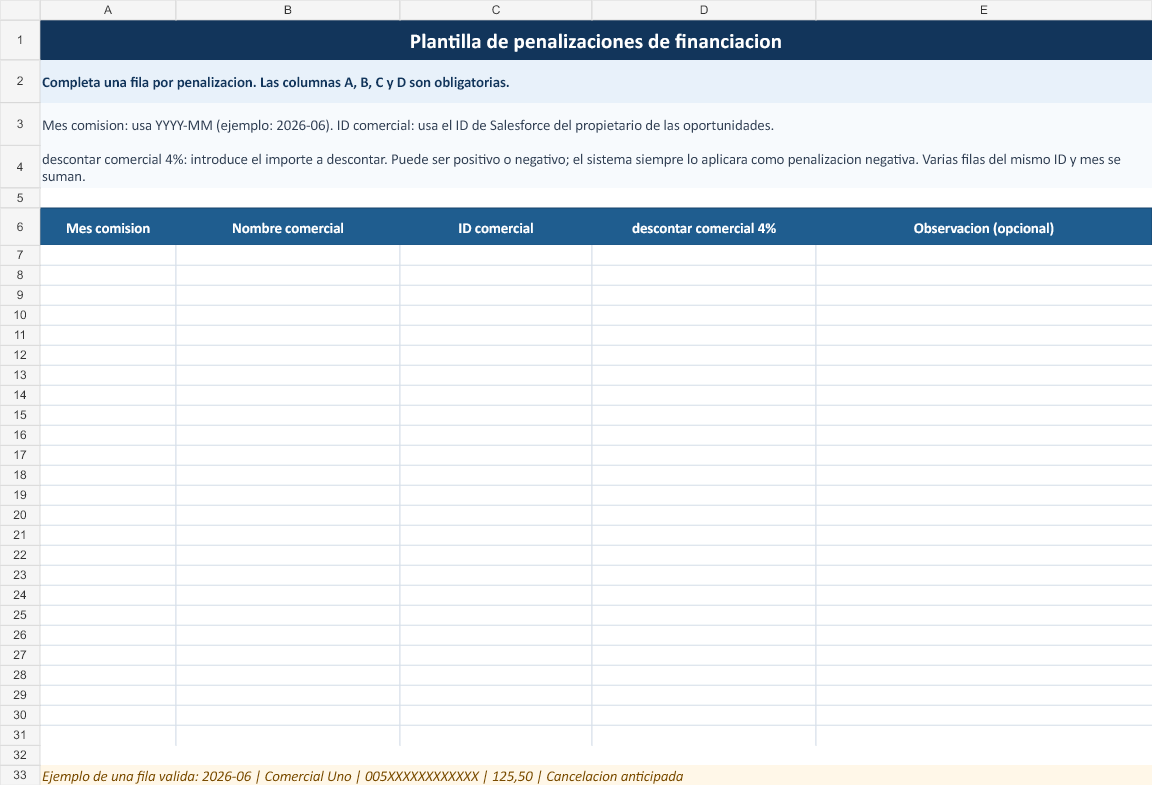
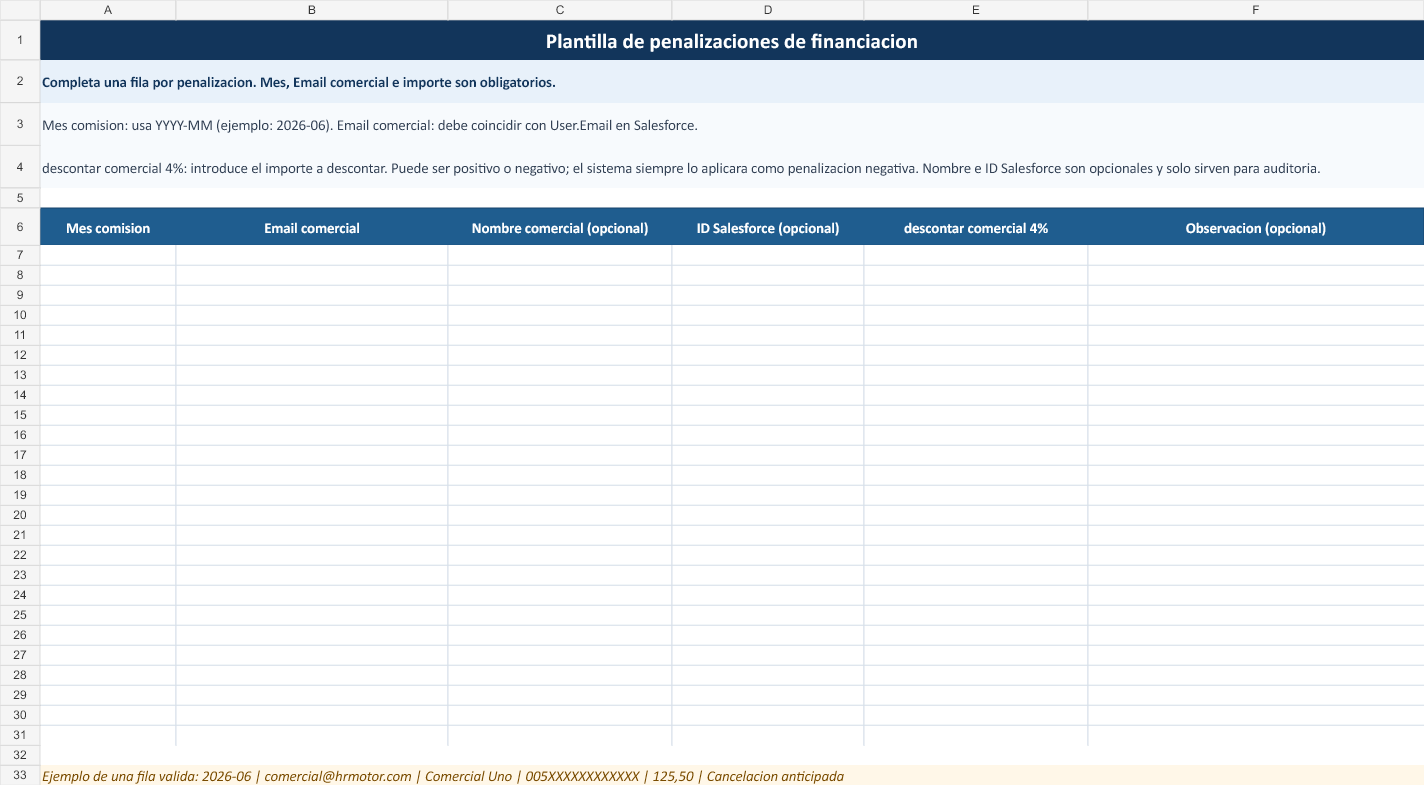
Penalizaciones

diff --git a/app/Services/Reports/CommercialCommissions/CommercialFinancingPenaltyImportService.php b/app/Services/Reports/CommercialCommissions/CommercialFinancingPenaltyImportService.php
@@ -19,7 +19,7 @@ class CommercialFinancingPenaltyImportService
         'amount' => ['descontarcomercial4', 'descontaracomercial4'],
     ];
 
-    private const IDENTITY_COLUMNS = [
+    private const OPTIONAL_IDENTITY_COLUMNS = [
         'commercial_id' => ['idcomercial', 'idsalesforce', 'idsalesforcecomercial', 'salesforceid'],
         'commercial_name' => ['nombrecomercial', 'nombre'],
     ];
@@ -95,9 +95,9 @@ class CommercialFinancingPenaltyImportService
                 CommercialFinancingPenalty::query()->create([
                     'import_id' => $import->id,
                     'commission_month' => $row['commission_month'],
-                    'commercial_email' => $salesforceUser?->email ?? $row['commercial_email'],
+                    'commercial_email' => $row['commercial_email'] ?? $salesforceUser?->email,
                     'commercial_name' => $row['commercial_name'] ?? $salesforceUser?->name,
-                    'salesforce_user_id' => $row['commercial_salesforce_id'] ?? $salesforceUser?->salesforce_id,
+                    'salesforce_user_id' => $salesforceUser?->salesforce_id ?? $row['commercial_salesforce_id'],
                     'amount' => $row['amount'],
                     'source_sheet' => $row['source_sheet'],
                     'source_row' => $row['source_row'],
@@ -117,13 +117,13 @@ class CommercialFinancingPenaltyImportService
 
     private function matchedUser(array $row, $usersById, $usersByEmail): ?SalesforceUser
     {
-        $commercialId = trim((string) ($row['commercial_salesforce_id'] ?? ''));
+        $email = $this->emailKey($row['commercial_email'] ?? null);
 
-        if ($commercialId !== '') {
-            return $usersById->get($commercialId);
+        if ($email !== '') {
+            return $usersByEmail->get($email);
         }
 
-        return $usersByEmail->get($this->emailKey($row['commercial_email'] ?? null));
+        return $usersById->get(trim((string) ($row['commercial_salesforce_id'] ?? '')));
     }
 
     /** @return array<int, array<string, mixed>> */
@@ -152,7 +152,7 @@ class CommercialFinancingPenaltyImportService
                 $commercialName = $commercialNameColumn !== null
                     ? trim((string) ($row[$commercialNameColumn] ?? ''))
                     : '';
-                $email = $header['mode'] === 'email'
+                $email = $header['columns']['email'] !== null
                     ? trim((string) ($row[$header['columns']['email']] ?? ''))
                     : '';
                 $monthValue = $row[$header['columns']['month']] ?? null;
@@ -164,14 +164,6 @@ class CommercialFinancingPenaltyImportService
 
                 $month = $this->parseMonth($monthValue);
                 $amount = $this->parseAmount($amountValue);
-
-                if ($header['mode'] === 'identity' && $commercialId === '') {
-                    $errors[] = "{$sheet['name']} fila {$sourceRow}: ID comercial obligatorio.";
-                }
-
-                if ($header['mode'] === 'identity' && $commercialName === '') {
-                    $errors[] = "{$sheet['name']} fila {$sourceRow}: Nombre comercial obligatorio.";
-                }
 
                 if ($header['mode'] === 'email' && ! filter_var($email, FILTER_VALIDATE_EMAIL)) {
                     $errors[] = "{$sheet['name']} fila {$sourceRow}: Email comercial no valido.";
@@ -189,9 +181,9 @@ class CommercialFinancingPenaltyImportService
                     break 2;
                 }
 
-                $validIdentity = $header['mode'] === 'identity'
-                    ? $commercialId !== '' && $commercialName !== ''
-                    : filter_var($email, FILTER_VALIDATE_EMAIL);
+                $validIdentity = $header['mode'] === 'email'
+                    ? filter_var($email, FILTER_VALIDATE_EMAIL)
+                    : $commercialId !== '' && $commercialName !== '';
 
                 if ($month === null || $amount === null || ! $validIdentity) {
                     continue;
@@ -218,7 +210,7 @@ class CommercialFinancingPenaltyImportService
         }
 
         if (! $foundHeader) {
-            throw new CommercialFinancingPenaltyImportException('Faltan las columnas requeridas: Mes comision, Nombre comercial, ID comercial y descontar comercial 4%.');
+            throw new CommercialFinancingPenaltyImportException('Faltan las columnas requeridas: Mes comision, Email comercial y descontar comercial 4%.');
         }
 
         if ($errors !== []) {
@@ -254,7 +246,7 @@ class CommercialFinancingPenaltyImportService
             }
 
             $identityColumns = [];
-            foreach (self::IDENTITY_COLUMNS as $field => $headers) {
+            foreach (self::OPTIONAL_IDENTITY_COLUMNS as $field => $headers) {
                 foreach ($headers as $header) {
                     if (array_key_exists($header, $normalized)) {
                         $identityColumns[$field] = $normalized[$header];
@@ -263,22 +255,26 @@ class CommercialFinancingPenaltyImportService
                 }
             }
 
-            if (count($identityColumns) === count(self::IDENTITY_COLUMNS)) {
-                return [
-                    'row_index' => $rowIndex,
-                    'mode' => 'identity',
-                    'columns' => array_merge($baseColumns, $identityColumns),
-                ];
-            }
-
             foreach (self::LEGACY_EMAIL_COLUMNS as $header) {
                 if (array_key_exists($header, $normalized)) {
                     return [
                         'row_index' => $rowIndex,
                         'mode' => 'email',
-                        'columns' => array_merge($baseColumns, ['email' => $normalized[$header], 'commercial_id' => null, 'commercial_name' => null]),
+                        'columns' => array_merge($baseColumns, [
+                            'email' => $normalized[$header],
+                            'commercial_id' => $identityColumns['commercial_id'] ?? null,
+                            'commercial_name' => $identityColumns['commercial_name'] ?? null,
+                        ]),
                     ];
                 }
+            }
+
+            if (count($identityColumns) === count(self::OPTIONAL_IDENTITY_COLUMNS)) {
+                return [
+                    'row_index' => $rowIndex,
+                    'mode' => 'identity',
+                    'columns' => array_merge($baseColumns, $identityColumns, ['email' => null]),
+                ];
             }
         }
 

diff --git a/tests/Feature/CommercialFinancingPenaltyImportTest.php b/tests/Feature/CommercialFinancingPenaltyImportTest.php
@@ -21,7 +21,7 @@ class CommercialFinancingPenaltyImportTest extends TestCase
 {
     use RefreshDatabase;
 
-    public function test_importa_por_id_mes_y_sustituye_el_mes_previamente_cargado(): void
+    public function test_importa_por_email_mes_y_sustituye_el_mes_previamente_cargado(): void
     {
         SalesforceUser::create([
             'salesforce_id' => '005-COMMERCIAL',
@@ -33,9 +33,9 @@ class CommercialFinancingPenaltyImportTest extends TestCase
 
         $importer = app(CommercialFinancingPenaltyImportService::class);
         $importer->import($this->xlsxUpload([
-            ['Mes comision', 'Nombre comercial', 'ID comercial', 'descontar comercial 4%'],
-            ['2026-06', 'Comercial Uno', '005-COMMERCIAL', '100,50'],
-            ['Junio 2026', 'Comercial Uno', '005-COMMERCIAL', -200],
+            ['Mes comision', 'Email comercial', 'descontar comercial 4%'],
+            ['2026-06', 'comercial@hrmotor.com', '100,50'],
+            ['Junio 2026', 'comercial@hrmotor.com', -200],
         ]), null);
 
         $ledger = app(CommercialFinancingPenaltyService::class)->forMonth(CarbonImmutable::parse('2026-06-01'));
@@ -43,23 +43,28 @@ class CommercialFinancingPenaltyImportTest extends TestCase
         $this->assertDatabaseCount('commercial_financing_penalties', 2);
 
         $importer->import($this->xlsxUpload([
-            ['Mes comision', 'Nombre comercial', 'ID Salesforce', 'descontar a comercial 4%'],
-            ['2026-06-01', 'Comercial Uno', '005-COMMERCIAL', 50],
+            ['Mes comision', 'Nombre comercial', 'Email comercial', 'ID Salesforce', 'descontar a comercial 4%'],
+            ['2026-06-01', 'Comercial Uno', 'comercial@hrmotor.com', '005-OTRO-ID', 50],
         ]), null);
 
         $ledger = app(CommercialFinancingPenaltyService::class)->forMonth(CarbonImmutable::parse('2026-06-01'));
         $this->assertEquals(-50.0, $ledger['amounts_by_user_id']['005-COMMERCIAL']);
         $this->assertSame(1, CommercialFinancingPenalty::query()->where('is_active', true)->count());
         $this->assertSame(2, CommercialFinancingPenalty::query()->where('is_active', false)->count());
+        $this->assertDatabaseHas('commercial_financing_penalties', [
+            'commercial_email' => 'comercial@hrmotor.com',
+            'salesforce_user_id' => '005-COMMERCIAL',
+            'is_active' => true,
+        ]);
     }
 
-    public function test_rechaza_archivo_sin_id_comercial(): void
+    public function test_rechaza_archivo_sin_email_comercial(): void
     {
         $this->expectException(CommercialFinancingPenaltyImportException::class);
 
         app(CommercialFinancingPenaltyImportService::class)->import($this->xlsxUpload([
-            ['Mes comision', 'Nombre comercial', 'descontar comercial 4%'],
-            ['2026-06', 'Comercial Uno', 100],
+            ['Mes comision', 'Nombre comercial', 'ID comercial', 'descontar comercial 4%'],
+            ['2026-06', 'Comercial Uno', '005-COMMERCIAL', 100],
         ]), null);
     }
 
@@ -123,7 +128,7 @@ class CommercialFinancingPenaltyImportTest extends TestCase
             'import_id' => $import->id,
             'commission_month' => '2026-06-01',
             'commercial_name' => 'Sin match',
-            'salesforce_user_id' => '005-SIN-MATCH',
+            'commercial_email' => 'sin-match@hrmotor.com',
             'amount' => -50,
             'is_active' => true,
         ]);
@@ -135,7 +140,7 @@ class CommercialFinancingPenaltyImportTest extends TestCase
         ])
             ->get('/informes/penalizaciones-financiacion')
             ->assertOk()
-            ->assertSee('005-SIN-MATCH');
+            ->assertSee('sin-match@hrmotor.com');
     }
 
     /** @param array<int, array<int, mixed>> $rows */

diff --git a/resources/views/reports/commercial-commissions/financing-penalties.blade.php b/resources/views/reports/commercial-commissions/financing-penalties.blade.php
@@ -18,7 +18,7 @@
             <div>
                 <div class="eyebrow">Administracion</div>
                 <h1>Penalizaciones financieras</h1>
-                <p class="sub">Carga el Excel mensual de cancelaciones anticipadas. El importe se descuenta tal como lo indique Cristina, agrupado por mes e ID Salesforce del comercial.</p>
+                <p class="sub">Carga el Excel mensual de cancelaciones anticipadas. El importe se descuenta tal como lo indique Cristina, agrupado por mes y email del comercial.</p>
             </div>
         </section>
 
@@ -40,7 +40,7 @@
             <div class="panel-title">
                 <div>
                     <h2>Subir Excel</h2>
-                    <div class="small">Formato obligatorio: <strong>Mes comision</strong>, <strong>Nombre comercial</strong>, <strong>ID comercial</strong> y <strong>descontar comercial 4%</strong>. El ID Salesforce es la clave de aplicacion.</div>
+                    <div class="small">Formato obligatorio: <strong>Mes comision</strong>, <strong>Email comercial</strong> y <strong>descontar comercial 4%</strong>. Nombre e ID Salesforce son opcionales y solo sirven para auditoria.</div>
                 </div>
             </div>
 
@@ -87,24 +87,25 @@
             <div class="panel-title">
                 <div>
                     <h2>Filas sin match Salesforce</h2>
-                    <div class="small">No se aplican hasta que el ID comercial coincida con el usuario sincronizado desde Salesforce.</div>
+                    <div class="small">No se aplican hasta que el email comercial coincida con el usuario sincronizado desde Salesforce.</div>
                 </div>
             </div>
             <div class="table-shell">
                 <table>
-                    <thead><tr><th>Mes</th><th>Comercial</th><th>ID Salesforce</th><th>Hoja</th><th class="num">Fila</th><th class="num">Importe</th></tr></thead>
+                    <thead><tr><th>Mes</th><th>Comercial</th><th>Email</th><th>ID Salesforce</th><th>Hoja</th><th class="num">Fila</th><th class="num">Importe</th></tr></thead>
                     <tbody>
                     @forelse ($unmatchedPenalties as $penalty)
                         <tr>
                             <td>{{ optional($penalty->commission_month)->format('Y-m') }}</td>
                             <td>{{ $penalty->commercial_name ?: '-' }}</td>
+                            <td>{{ $penalty->commercial_email ?: '-' }}</td>
                             <td>{{ $penalty->salesforce_user_id ?: '-' }}</td>
                             <td>{{ $penalty->source_sheet ?: '-' }}</td>
                             <td class="num">{{ $penalty->source_row ?: '-' }}</td>
                             <td class="num commission-penalty-text">{{ number_format($penalty->amount, 2, ',', '.') }} EUR</td>
                         </tr>
                     @empty
-                        <tr><td colspan="6">Todas las filas activas tienen match con Salesforce.</td></tr>
+                        <tr><td colspan="7">Todas las filas activas tienen match con Salesforce.</td></tr>
                     @endforelse
                     </tbody>
                 </table>

diff --git a/resources/views/reports/commercial-commissions/index.blade.php b/resources/views/reports/commercial-commissions/index.blade.php
@@ -739,20 +739,21 @@
                                             <div class="table-shell is-hidden" data-commercial-detail-tab-panel="financing-cancellations">
                                                 <table data-sortable-table="financing-cancellations-{{ $row['commercial_id'] }}">
                                                     <thead>
-                                                    <tr><th colspan="4">Cancelaciones anticipadas de financiacion</th></tr>
-                                                    <tr><th>Comercial</th><th>ID Salesforce</th><th>Hoja</th><th class="num">Fila</th><th class="num">Penalizacion</th></tr>
+                                                    <tr><th colspan="6">Cancelaciones anticipadas de financiacion</th></tr>
+                                                    <tr><th>Comercial</th><th>Email</th><th>ID Salesforce</th><th>Hoja</th><th class="num">Fila</th><th class="num">Penalizacion</th></tr>
                                                     </thead>
                                                     <tbody data-sort-body="financing-cancellations-{{ $row['commercial_id'] }}">
                                                     @forelse ($financingCancellationDetails as $detail)
                                                         <tr>
                                                             <td>{{ $detail['commercial_name'] }}</td>
+                                                            <td>{{ $detail['commercial_email'] }}</td>
                                                             <td>{{ $detail['commercial_id'] }}</td>
                                                             <td>{{ $detail['source_sheet'] ?: '-' }}</td>
                                                             <td class="num">{{ $detail['source_row'] ?: '-' }}</td>
                                                             <td class="num commission-penalty-text">{{ number_format($detail['amount'], 2, ',', '.') }}</td>
                                                         </tr>
                                                     @empty
-                                                        <tr><td colspan="4">Sin cancelaciones anticipadas cargadas para este comercial.</td></tr>
+                                                        <tr><td colspan="6">Sin cancelaciones anticipadas cargadas para este comercial.</td></tr>
                                                     @endforelse
                                                     </tbody>
                                                 </table>

diff --git a/app/Http/Controllers/Reports/CommercialCommissions/CommercialFinancingPenaltyImportController.php b/app/Http/Controllers/Reports/CommercialCommissions/CommercialFinancingPenaltyImportController.php
@@ -66,11 +66,11 @@ class CommercialFinancingPenaltyImportController extends Controller
                 ->values(),
             'unmatchedPenalties' => $activePenalties
                 ->filter(function (CommercialFinancingPenalty $penalty) use ($salesforceUserIds, $salesforceEmails): bool {
-                    if (filled($penalty->salesforce_user_id)) {
-                        return ! $salesforceUserIds->has((string) $penalty->salesforce_user_id);
+                    if (filled($penalty->commercial_email)) {
+                        return ! $salesforceEmails->has(Str::lower(trim((string) $penalty->commercial_email)));
                     }
 
-                    return ! $salesforceEmails->has(Str::lower(trim((string) $penalty->commercial_email)));
+                    return ! $salesforceUserIds->has((string) $penalty->salesforce_user_id);
                 })
                 ->sortByDesc('created_at')
                 ->take(20)

diff --git a/app/Services/Reports/CommercialCommissions/CommercialFinancingPenaltyService.php b/app/Services/Reports/CommercialCommissions/CommercialFinancingPenaltyService.php
@@ -39,9 +39,9 @@ class CommercialFinancingPenaltyService
         $unmatchedRows = [];
 
         foreach ($penalties as $penalty) {
-            $user = filled($penalty->salesforce_user_id)
-                ? $usersById->get((string) $penalty->salesforce_user_id)
-                : $usersByEmail->get($this->emailKey($penalty->commercial_email));
+            $user = filled($penalty->commercial_email)
+                ? $usersByEmail->get($this->emailKey($penalty->commercial_email))
+                : $usersById->get((string) $penalty->salesforce_user_id);
 
             if (! $user instanceof SalesforceUser) {
                 $unmatchedRows[] = [
